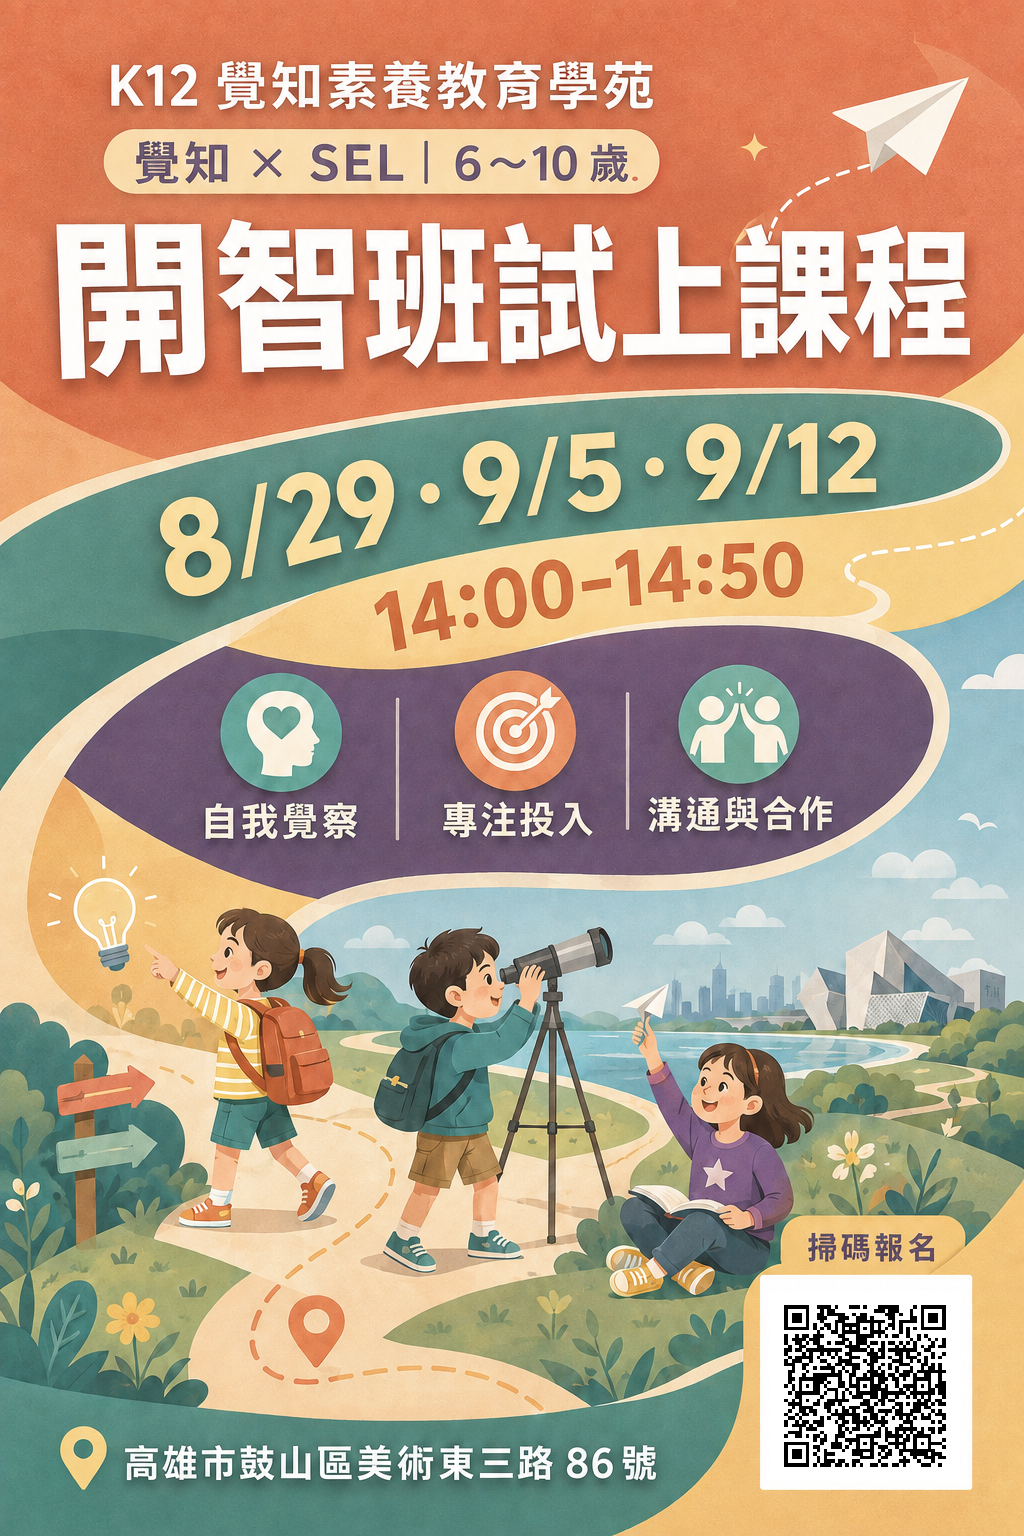
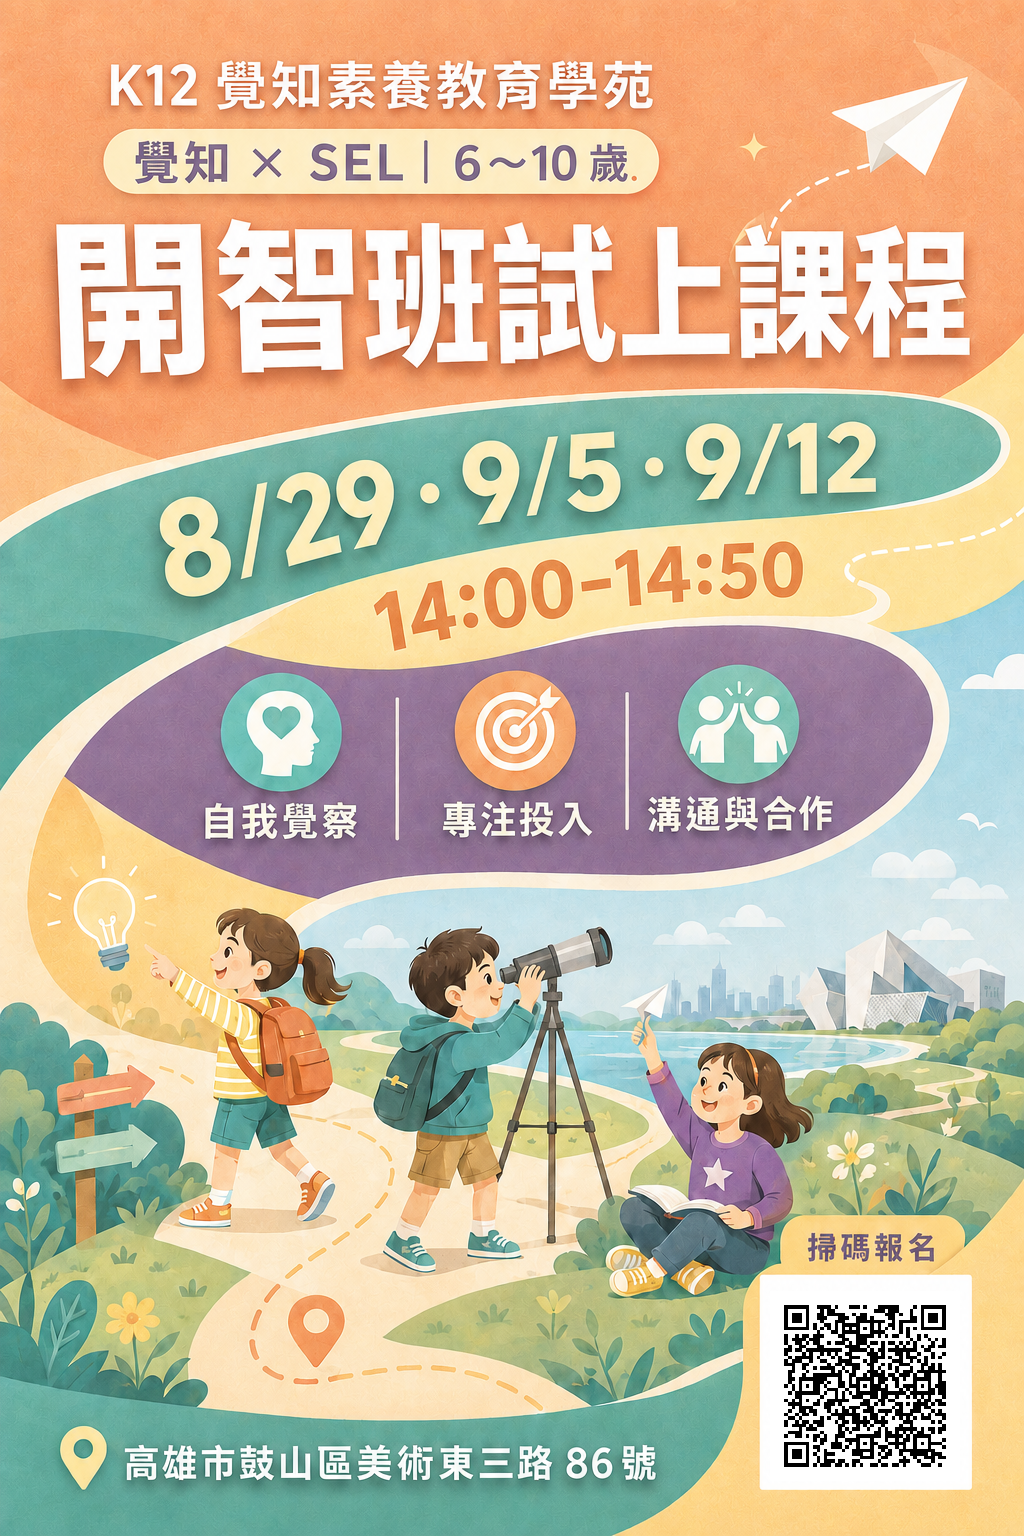
brighten trial class poster

diff --git a/docs/2026-08-22_播放介面與開智班試上更新.md b/docs/2026-08-22_播放介面與開智班試上更新.md
@@ -8,6 +8,7 @@
 - 舊海報版面不可只用遮罩勉強覆蓋，需重新調整圖片與排版。
 - 使用者認為第一版重新排版仍不好看，要求改由網頁版 GPT 生成。
 - 網頁版 GPT 第一版色彩飽和度過高；保留版面結構，再將橘、黃、青綠與紫色的飽和度降低約 30%。
+- 低飽和度版本方向可接受，但電視牆顯示仍偏暗；維持低彩度配色，將整體亮度提高約 12～15%。
 
 ## 原因診斷
 
@@ -19,7 +20,7 @@
 
 - 六張舊 SEL 截圖在網頁端加入底部乾淨遮罩，移除烙入圖片的播放狀態。
 - 直式頁隱藏播放控制列與進度列，並移除空白鍵暫停快捷鍵。
-- 網頁版 GPT 生成全新的 2:3 探索主視覺，並依使用者回饋重製為低飽和度版本。
+- 網頁版 GPT 生成全新的 2:3 探索主視覺，依序重製為低飽和度版本及較明亮版本。
 - 在 GPT 保留的白色區域置入真實報名 QR Code，未使用模型生成的假 QR Code。
 - 網站活動頁改用 `focus-event-poster-20260829-gpt.png`，並以完整 2:3 比例顯示，不裁掉上下內容。
 - 右側同步改為「開智班試上課程」與三個最新場次。
@@ -27,7 +28,7 @@
 
 ## 現行來源
 
-- 網頁版 GPT 低飽和度海報原圖：`C:\Users\KHUser\Downloads\f3e37b75-784c-4532-b633-74414cbacecf.png`
+- 網頁版 GPT 明亮低飽和度海報原圖：`C:\Users\KHUser\Downloads\244c9c55-fa92-465d-9843-fa770456c466.png`
 - 網站正式海報：`focus-event-poster-20260829-gpt.png`
 - 真實報名 QR Code：`focus-event-qr.png`
 
